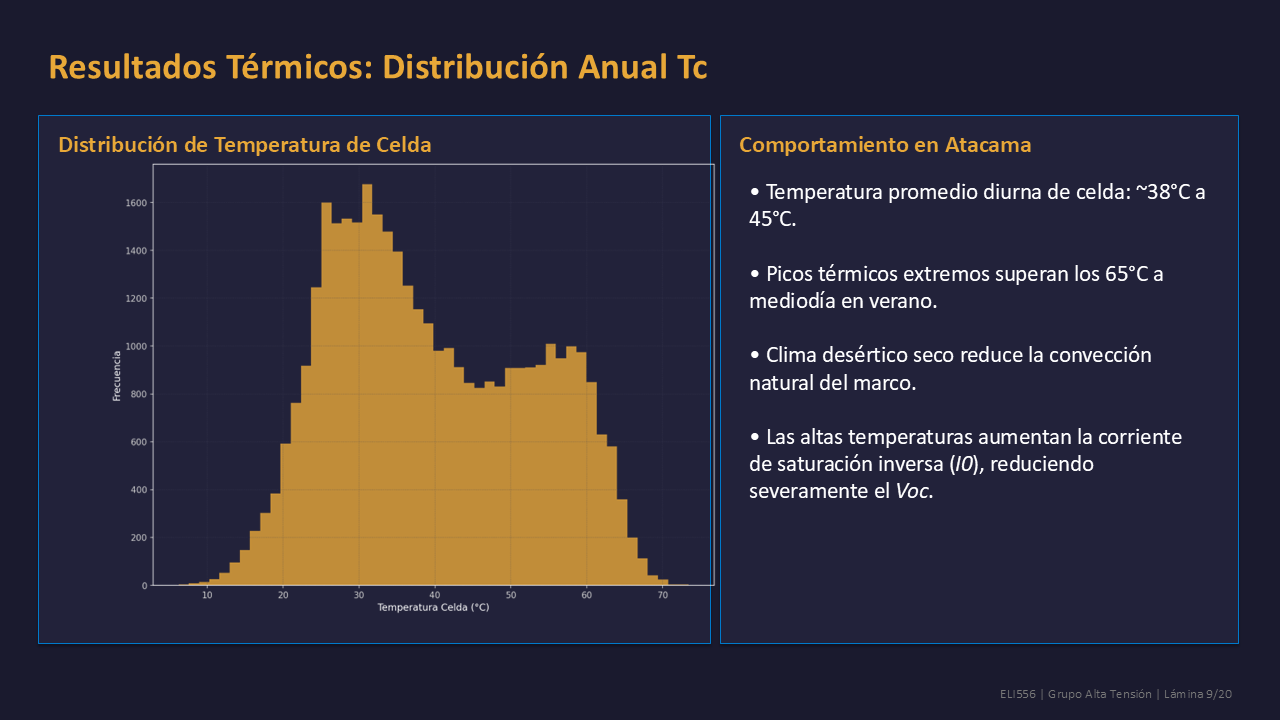
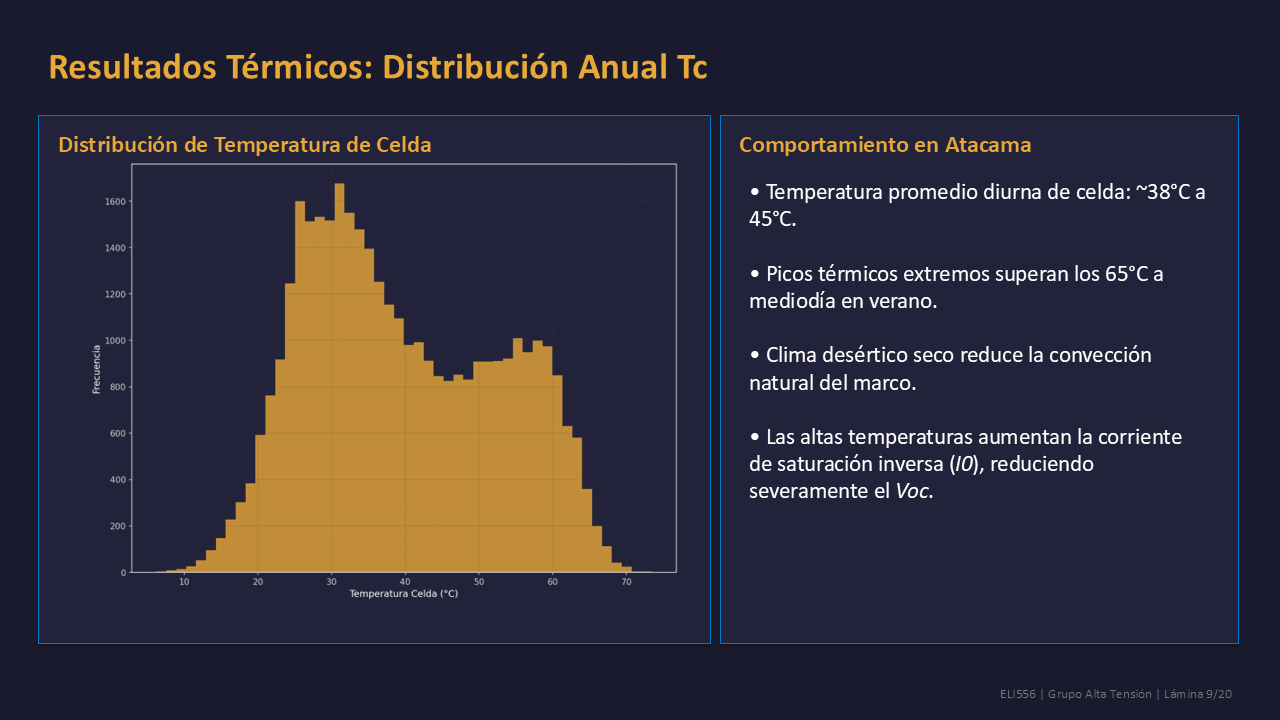
Mueve el histograma de Slide 9 a la izquierda para cuadrarlo perfectamente

diff --git a/src/fase6_gen_presentation.py b/src/fase6_gen_presentation.py
@@ -428,7 +428,7 @@ def create_presentation():
     apply_slide_background(slide)
     add_title(slide, "Resultados Térmicos: Distribución Anual Tc")
     add_panel(slide, MARGIN, Inches(1.2), Inches(7), Inches(5.5), title="Distribución de Temperatura de Celda")
-    add_image(slide, 'output/Fase1_Resultados/temp_hist_HIT.png', Inches(1.10), Inches(1.65), width=Inches(6.4), height=Inches(4.80))
+    add_image(slide, 'output/Fase1_Resultados/temp_hist_HIT.png', Inches(0.90), Inches(1.65), width=Inches(6.2), height=Inches(4.65))
     
     add_panel(slide, Inches(7.5), Inches(1.2), Inches(5.4), Inches(5.5), title="Comportamiento en Atacama")
     add_text(slide, Inches(7.7), Inches(1.8), Inches(5), Inches(4), 
